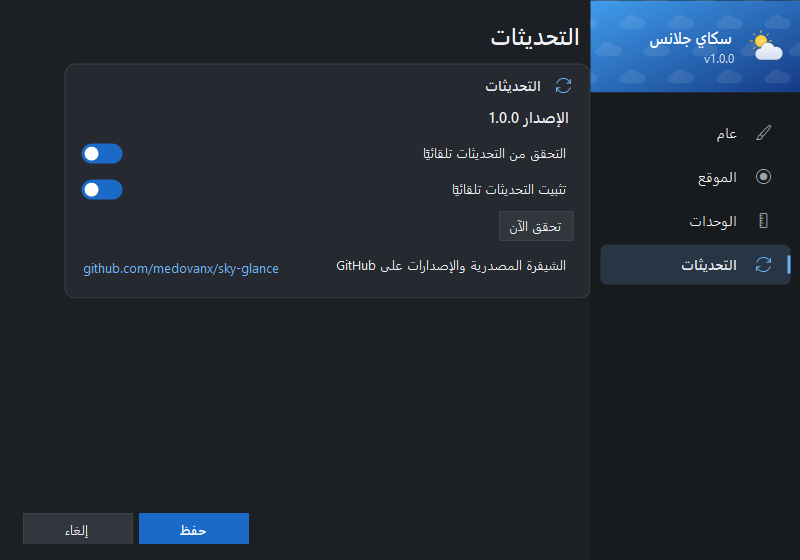
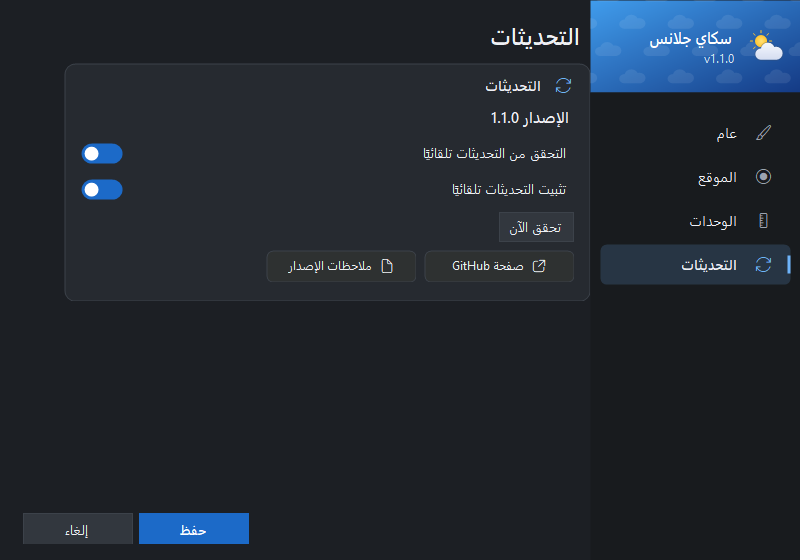
Show update progress in place of Check now, and GitHub page and Release notes buttons

diff --git a/src/SkyGlance/UI/Settings/SettingsForm.cs b/src/SkyGlance/UI/Settings/SettingsForm.cs
@@ -31,6 +31,7 @@ sealed class SettingsForm : Form
     // Updates
     readonly ToggleSwitch tglAutoCheck = new(), tglAutoInstall = new();
     readonly Button btnCheck = new() { AutoSize = true, Height = 30 };
+    readonly ProgressLine updateBar = new() { Width = 200, Visible = false };
     readonly Label lblUpdate = new() { AutoSize = true, Tag = "dim", MaximumSize = new Size(440, 0) };
 
     readonly Button btnSave = new() { Size = new Size(110, 34) }, btnCancel = new() { Size = new Size(110, 34) };
@@ -275,28 +276,37 @@ sealed class SettingsForm : Form
         tglAutoInstall.Checked = s.AutoInstallUpdates;
         btnCheck.Text = L.T("CheckNow");
         var version = new Label { Text = L.F("Version", Updater.CurrentText), AutoSize = true, Font = new Font("Segoe UI Semibold", 11f), Margin = new Padding(0, 0, 0, 8) };
-        // The project page: source, releases and issues.
-        var github = new LinkLabel
-        {
-            Text = Updater.RepoPage.Replace("https://", ""), AutoSize = true, Tag = "keep", Margin = new Padding(0, 6, 0, 0),
-            LinkColor = t.Accent, ActiveLinkColor = t.AccentHover, VisitedLinkColor = t.Accent, LinkBehavior = LinkBehavior.HoverUnderline,
-        };
-        github.LinkClicked += (_, _) => Updater.OpenPage(Updater.RepoPage);
-        var githubRow = Row(L.T("SourceCode"), github);
+        // The project page (source and issues) and the list of releases with their notes.
+        var btnGitHub = new IconButton { Width = 150, Height = 32, Glyph = Art.IconOpen, Theme = t, Text = L.T("GitHubRepo"), RightToLeft = RightToLeft };
+        var btnNotes = new IconButton { Width = 150, Height = 32, Glyph = Art.IconDocument, Theme = t, Text = L.T("ReleaseNotes"), RightToLeft = RightToLeft };
+        btnGitHub.Click += (_, _) => Updater.OpenPage(Updater.RepoPage);
+        btnNotes.Click += (_, _) => Updater.OpenPage(Updater.ReleasesPage);
         AddPage(Art.IconUpdate, L.T("Updates"), Card(L.T("Updates"), Art.IconUpdate,
             version,
             Row(L.T("AutoCheck"), tglAutoCheck),
             Row(L.T("AutoInstall"), tglAutoInstall),
-            Flow(btnCheck, lblUpdate),
-            githubRow));
+            Flow(btnCheck, updateBar, lblUpdate),
+            Flow(btnGitHub, btnNotes)));
         tglAutoCheck.CheckedChanged += (_, _) => SyncEnabled();
         btnCheck.Click += async (_, _) =>
         {
-            btnCheck.Enabled = false;
-            lblUpdate.Text = "...";
-            lblUpdate.Text = await app.CheckForUpdatesAsync(userInitiated: true);
-            btnCheck.Enabled = true;
+            string msg = await app.CheckForUpdatesAsync(userInitiated: true);
+            if (!app.UpdateBusy && !IsDisposed) lblUpdate.Text = msg;
         };
+        updateBar.Theme = t;
+        app.UpdateChanged += SyncUpdate;
+        FormClosed += (_, _) => app.UpdateChanged -= SyncUpdate;
+        if (app.UpdateBusy) SyncUpdate();
+    }
+
+    /// <summary>While busy, a progress bar stands where Check now was and the line beside it says what is happening.</summary>
+    void SyncUpdate()
+    {
+        if (IsDisposed) return;
+        updateBar.Visible = app.UpdateBusy;
+        btnCheck.Visible = !app.UpdateBusy;
+        updateBar.Value = app.UpdateFraction;
+        if (app.UpdateStatus.Length > 0) lblUpdate.Text = app.UpdateStatus;
     }
 
     void SyncEnabled()
@@ -372,10 +382,12 @@ sealed class SettingsForm : Form
     static FlowLayoutPanel Flow(params Control[] cs)
     {
         var p = new FlowLayoutPanel { AutoSize = true, WrapContents = false, Margin = new Padding(0, 4, 0, 4) };
-        int tallest = cs.Max(c => c.Height);
+        // An AutoSize label with no text yet has no height, so measure its preferred size instead.
+        static int H(Control c) => c.AutoSize ? Math.Max(c.Height, c.PreferredSize.Height) : c.Height;
+        int tallest = cs.Max(H);
         for (int i = 0; i < cs.Length; i++)
         {
-            int top = (tallest - cs[i].Height) / 2;
+            int top = (tallest - H(cs[i])) / 2;
             cs[i].Margin = new Padding(0, top, i < cs.Length - 1 ? 8 : 0, 0);
             p.Controls.Add(cs[i]);
         }

diff --git a/src/SkyGlance/SkyGlanceApp.cs b/src/SkyGlance/SkyGlanceApp.cs
@@ -324,19 +324,50 @@ sealed class SkyGlanceApp : ApplicationContext
     bool installing;
 
     /// <summary>Checks GitHub; installs automatically when allowed. Returns a status line.</summary>
+    /// <summary>True while checking for or installing an update, so the Updates page can show progress.</summary>
+    public bool UpdateBusy { get; private set; }
+    /// <summary>0 to 1 while downloading, null when the end isn't known (checking, verifying).</summary>
+    public double? UpdateFraction { get; private set; }
+    /// <summary>What the update is doing now, or its last result.</summary>
+    public string UpdateStatus { get; private set; } = "";
+    public event Action? UpdateChanged;
+
+    void SetUpdate(bool busy, double? fraction, string status)
+    {
+        UpdateBusy = busy; UpdateFraction = fraction; UpdateStatus = status;
+        UpdateChanged?.Invoke();
+    }
+
+    /// <summary>For screenshots: shows a download in progress without downloading anything.</summary>
+    internal void DemoUpdate(double fraction)
+    {
+        long total = 81_808_852, done = (long)(total * fraction);
+        SetUpdate(true, fraction, L.F("UpdateDownloading", "1.2.0", L.Ltr($"{100.0 * fraction:0}%  {Mb(done)} / {Mb(total)}")));
+    }
+
+    static string Mb(long bytes) => (bytes / 1048576.0).ToString("0.0", System.Globalization.CultureInfo.InvariantCulture) + " MB";
+
     public async Task<string> CheckForUpdatesAsync(bool userInitiated)
     {
         if (!userInitiated && !S.AutoCheckUpdates) return "";
+        if (installing) return UpdateStatus;
+        if (userInitiated && UpdateBusy) return UpdateStatus;
         Updater.Release? rel;
+        if (userInitiated) SetUpdate(true, null, L.T("CheckingUpdates"));
         try { rel = await Updater.CheckAsync(); }
         catch (Exception ex)
         {
             Log.Error(ex);
+            if (userInitiated) SetUpdate(false, null, L.T("UpdateCheckFailed"));
             return L.T("UpdateCheckFailed");
         }
         S.LastUpdateCheckUtc = DateTime.UtcNow;
         S.Save();
-        if (rel == null) return L.F("UpToDate", Updater.CurrentText);
+        if (rel == null)
+        {
+            if (userInitiated) SetUpdate(false, null, L.F("UpToDate", Updater.CurrentText));
+            return L.F("UpToDate", Updater.CurrentText);
+        }
 
         string ver = rel.Version.ToString(3);
         if (userInitiated || S.AutoInstallUpdates)
@@ -345,6 +376,7 @@ sealed class SkyGlanceApp : ApplicationContext
             return L.F("Updating", ver);
         }
         Toast.Show(L.T("AppName"), L.F("UpdateAvailable", ver), () => _ = InstallUpdateAsync(rel));
+        SetUpdate(false, null, L.F("UpdateAvailable", ver));
         return L.F("UpdateAvailable", ver);
     }
 
@@ -352,13 +384,27 @@ sealed class SkyGlanceApp : ApplicationContext
     {
         if (installing) return;
         installing = true;
-        Toast.Show(L.T("AppName"), L.F("Updating", rel.Version.ToString(3)));
-        if (await Updater.InstallAsync(rel))
+        string ver = rel.Version.ToString(3);
+        Toast.Show(L.T("AppName"), L.F("Updating", ver));
+        SetUpdate(true, 0, L.F("Updating", ver));
+        // Progress<T> made here posts its reports back to the UI thread.
+        var progress = new Progress<Updater.Progress>(p =>
         {
+            if (!installing) return;
+            if (p.Verifying) SetUpdate(true, null, L.T("UpdateVerifying"));
+            else if (p.Total > 0)
+                SetUpdate(true, (double)p.Done / p.Total,
+                    L.F("UpdateDownloading", ver, L.Ltr($"{100.0 * p.Done / p.Total:0}%  {Mb(p.Done)} / {Mb(p.Total)}")));
+            else SetUpdate(true, null, L.F("UpdateDownloading", ver, L.Ltr(Mb(p.Done))));
+        });
+        if (await Updater.InstallAsync(rel, progress))
+        {
+            SetUpdate(true, 1, L.F("UpdateRestarting", ver));
             Exit();
             return;
         }
         installing = false;
+        SetUpdate(false, null, L.T("UpdateFailed"));
         Toast.Show(L.T("AppName"), L.T("UpdateFailed"));
         Updater.OpenPage(rel.PageUrl);
     }

diff --git a/src/SkyGlance/UI/Controls/ProgressLine.cs b/src/SkyGlance/UI/Controls/ProgressLine.cs
@@ -1,0 +1,69 @@
+using System.Drawing.Drawing2D;
+
+namespace SkyGlance.UI.Controls;
+
+/// <summary>
+/// A slim rounded progress bar in the accent colour. A null <see cref="Value"/> shows a sliding segment
+/// for work with no known end (checking, verifying); it animates only while visible.
+/// </summary>
+sealed class ProgressLine : Control
+{
+    readonly System.Windows.Forms.Timer anim = new() { Interval = 16 };
+    double? value;
+    float phase;
+
+    public Theme Theme { get; set; } = Theme.Current;
+
+    public ProgressLine()
+    {
+        SetStyle(ControlStyles.AllPaintingInWmPaint | ControlStyles.OptimizedDoubleBuffer | ControlStyles.UserPaint
+                 | ControlStyles.SupportsTransparentBackColor, true);
+        Size = new Size(200, 32);
+        anim.Tick += (_, _) => { phase = (phase + 0.012f) % 1f; Invalidate(); };
+    }
+
+    /// <summary>0 to 1, or null for an indeterminate bar.</summary>
+    public double? Value
+    {
+        get => value;
+        set { this.value = value is { } v ? Math.Clamp(v, 0, 1) : null; SyncTimer(); Invalidate(); }
+    }
+
+    void SyncTimer() => anim.Enabled = value == null && Visible && IsHandleCreated;
+
+    protected override void OnVisibleChanged(EventArgs e) { base.OnVisibleChanged(e); SyncTimer(); }
+    protected override void OnHandleCreated(EventArgs e) { base.OnHandleCreated(e); SyncTimer(); }
+
+    protected override void Dispose(bool disposing)
+    {
+        if (disposing) anim.Dispose();
+        base.Dispose(disposing);
+    }
+
+    protected override void OnPaint(PaintEventArgs e)
+    {
+        var g = e.Graphics;
+        g.SmoothingMode = SmoothingMode.AntiAlias;
+        g.Clear(Styler.Backdrop(this, Theme.Surface));
+        float s = DeviceDpi / 96f, h = 6 * s;
+        var track = new RectangleF(1, (Height - h) / 2, Width - 2, h);
+        Art.FillRound(g, track, h / 2, Color.FromArgb(Theme.Dark ? 46 : 30, Theme.Text));
+        RectangleF fill;
+        if (value is { } v)
+        {
+            if (v <= 0) return;
+            fill = new RectangleF(track.X, track.Y, Math.Max(h, track.Width * (float)v), h);
+        }
+        else
+        {
+            // A segment a third of the track wide, eased so it speeds up in the middle.
+            float seg = track.Width / 3, t = (1 - MathF.Cos(phase * MathF.PI)) / 2;
+            float x = track.X - seg + (track.Width + seg) * t;
+            float l = Math.Max(track.X, x), r = Math.Min(track.Right, x + seg);
+            if (r - l < 1) return;
+            fill = new RectangleF(l, track.Y, r - l, h);
+        }
+        if (RightToLeft == RightToLeft.Yes) fill.X = track.Right - (fill.X - track.X) - fill.Width;
+        Art.FillRound(g, fill, h / 2, Theme.Accent);
+    }
+}

diff --git a/src/SkyGlance/Localization/L.cs b/src/SkyGlance/Localization/L.cs
@@ -144,7 +144,8 @@ public static class L
         ["Updates"] = ("Updates", "التحديثات"),
         ["AutoCheck"] = ("Check for updates automatically", "التحقق من التحديثات تلقائيًا"),
         ["AutoInstall"] = ("Install updates automatically", "تثبيت التحديثات تلقائيًا"),
-        ["SourceCode"] = ("Source code and releases on GitHub", "الشيفرة المصدرية والإصدارات على GitHub"),
+        ["GitHubRepo"] = ("GitHub page", "صفحة GitHub"),
+        ["ReleaseNotes"] = ("Release notes", "ملاحظات الإصدار"),
         ["CheckNow"] = ("Check now", "تحقق الآن"),
         ["Version"] = ("Version {0}", "الإصدار {0}"),
         ["UpToDate"] = ("You're on the latest version ({0}).", "لديك أحدث إصدار ({0})."),
@@ -152,6 +153,10 @@ public static class L
         ["Updating"] = ("Updating to {0}...", "جارٍ التحديث إلى {0}..."),
         ["UpdateFailed"] = ("Couldn't install the update. Opening the download page.", "تعذر تثبيت التحديث. سيتم فتح صفحة التنزيل."),
         ["UpdateCheckFailed"] = ("Couldn't check for updates.", "تعذر التحقق من التحديثات."),
+        ["CheckingUpdates"] = ("Checking for updates...", "جارٍ البحث عن تحديثات..."),
+        ["UpdateDownloading"] = ("Downloading {0}: {1}", "جارٍ تنزيل {0}: {1}"),
+        ["UpdateVerifying"] = ("Checking the download...", "جارٍ التحقق من التنزيل..."),
+        ["UpdateRestarting"] = ("Restarting into {0}...", "جارٍ إعادة التشغيل إلى {0}..."),
         ["Updated"] = ("Updated to version {0}.", "تم التحديث إلى الإصدار {0}."),
 
         ["Compass0"] = ("N", "ش"), ["Compass1"] = ("NE", "ش ق"), ["Compass2"] = ("E", "ق"), ["Compass3"] = ("SE", "ج ق"),
@@ -189,6 +194,9 @@ public static class L
     };
 
     public static string T(string key) => D.TryGetValue(key, out var v) ? (Ar ? v.ar : v.en) : key;
+
+    /// <summary>Keeps numbers and units in left to right order inside Arabic text.</summary>
+    public static string Ltr(string s) => "\u200E" + s + "\u200E";
 
     public static string F(string key, params object[] args) => string.Format(Culture, T(key), args);
 

diff --git a/src/SkyGlance/Services/Updater.cs b/src/SkyGlance/Services/Updater.cs
@@ -53,8 +53,11 @@ public static class Updater
         return null;
     }
 
+    /// <summary>Where an install is: bytes downloaded and the total (0 when unknown), and whether it is verifying now.</summary>
+    public readonly record struct Progress(long Done, long Total, bool Verifying);
+
     /// <summary>Downloads and swaps the exe, then starts the new version. Returns false if it couldn't.</summary>
-    public static async Task<bool> InstallAsync(Release rel)
+    public static async Task<bool> InstallAsync(Release rel, IProgress<Progress>? progress = null)
     {
         string exe = Environment.ProcessPath!;
         string fresh = exe + ".new", old = exe + ".old";
@@ -63,12 +66,25 @@ public static class Updater
             using (var resp = await Http.GetAsync(rel.AssetUrl, HttpCompletionOption.ResponseHeadersRead))
             {
                 resp.EnsureSuccessStatusCode();
+                long total = resp.Content.Headers.ContentLength ?? 0, done = 0;
                 await using var fs = File.Create(fresh);
-                await resp.Content.CopyToAsync(fs);
+                await using var src = await resp.Content.ReadAsStreamAsync();
+                var buf = new byte[81920];
+                var lastReport = DateTime.MinValue;
+                int n;
+                progress?.Report(new(0, total, false));
+                while ((n = await src.ReadAsync(buf)) > 0)
+                {
+                    await fs.WriteAsync(buf.AsMemory(0, n));
+                    done += n;
+                    if ((DateTime.UtcNow - lastReport).TotalMilliseconds >= 100) { lastReport = DateTime.UtcNow; progress?.Report(new(done, total, false)); }
+                }
+                progress?.Report(new(done, total, false));
             }
 
             if (rel.Sha256 != null)
             {
+                progress?.Report(new(0, 0, true));
                 await using var fs = File.OpenRead(fresh);
                 string actual = Convert.ToHexString(await SHA256.HashDataAsync(fs)).ToLowerInvariant();
                 if (actual != rel.Sha256.ToLowerInvariant()) { File.Delete(fresh); return false; }

diff --git a/src/SkyGlance/UI/Styling/Art.cs b/src/SkyGlance/UI/Styling/Art.cs
@@ -19,7 +19,8 @@ static class Art
     // Windows icon font: Segoe Fluent Icons (Win11) or Segoe MDL2 Assets (Win10) share these code points.
     public const string IconSettings = "\uE713", IconRefresh = "\uE72C", IconLocation = "\uE81D", IconUpdate = "\uE895",
                         IconGeneral = "\uE771", IconSearch = "\uE721", IconTaskbar = "\uE7C4", IconRuler = "\uECC6",
-                        IconWeather = "\uE9CA", IconChevronDown = "\uE70D", IconCalendar = "\uE787", IconPrev = "\uE76B", IconNext = "\uE76C", IconPrevYear = "\uE892", IconNextYear = "\uE893", IconDelete = "\uE74D", IconAdd = "\uE710";
+                        IconWeather = "\uE9CA", IconChevronDown = "\uE70D", IconCalendar = "\uE787", IconPrev = "\uE76B", IconNext = "\uE76C", IconPrevYear = "\uE892", IconNextYear = "\uE893", IconDelete = "\uE74D", IconAdd = "\uE710",
+                        IconOpen = "\uE8A7", IconDocument = "\uE8A5";
 
     public static readonly string IconFontName =
         new System.Drawing.Text.InstalledFontCollection().Families.Any(f => f.Name == "Segoe Fluent Icons")

diff --git a/src/SkyGlance/DevTools/Shots.cs b/src/SkyGlance/DevTools/Shots.cs
@@ -39,6 +39,9 @@ static class Shots
                 settings.ShowPage(i);
                 SaveClient(settings, Path.Combine(dir, $"settings-{i}-{lang}.png"));
             }
+            settings.ShowPage(SettingsForm.UpdatesPage);
+            app.DemoUpdate(0.45);
+            SaveClient(settings, Path.Combine(dir, $"settings-updating-{lang}.png"));
             settings.Close();
 
             var day = new DayForm(app) { StartPosition = FormStartPosition.Manual, Location = new Point(-4000, -4000) };
